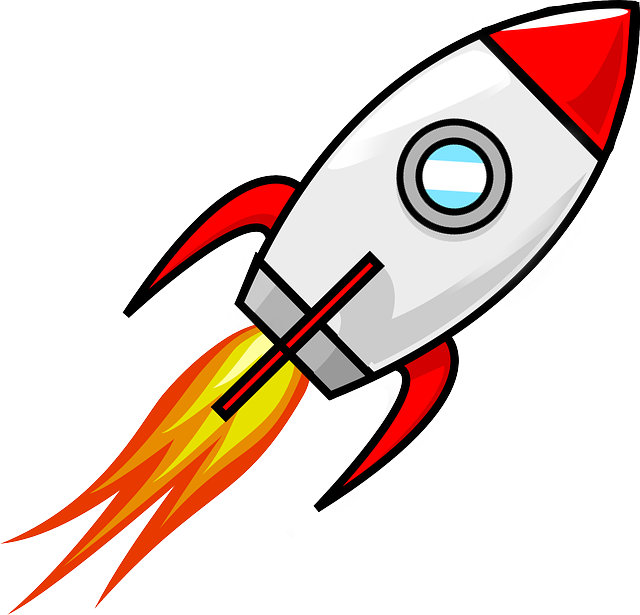
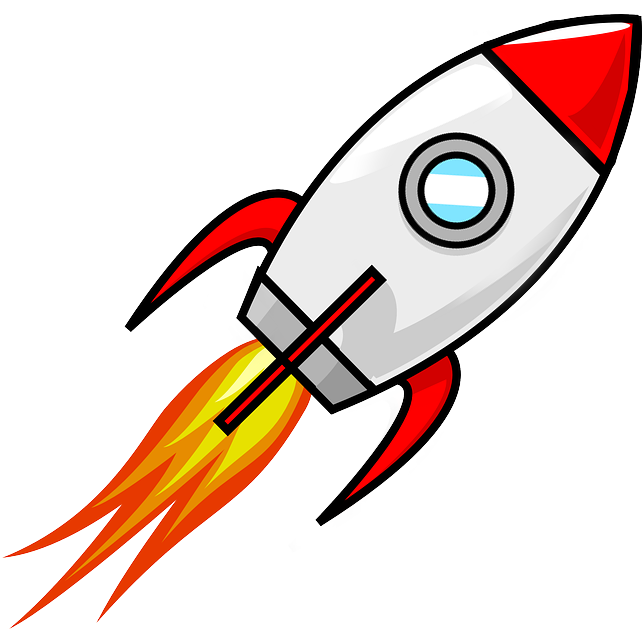
rocket ride

diff --git a/index2.html b/index2.html
@@ -56,7 +56,160 @@
 
     <footer>Made by falcongirl4 and team.</footer>
 </body>
+
 <script>
+
+var canvas=document.getElementById("canvas");
+var ctx=canvas.getContext("2d");
+
+var cx=50;
+var cy=50;
+var radius=4;
+
+// a variable to hold the current degree of rotation
+var degreeAngle=0;
+
+// load an image
+// when the image is fully loaded, call start()
+// start() will start the animation loop
+var img=new Image();
+img.onload=start;
+img.src="./images/rocket3.png";
+function start(){
+    animate();
+}
+
+// this is an animation loop
+// using requestAnimationFrame
+let RUN_INDEX = 0;
+let moveIDX = 0;
+let scaleDWN = 0;
+function animate(){
+    
+    // request that this animate() function be called again
+    // this creates an animation loop
+    // requestAnimationFrame(animate);
+    
+    // clear the canvas
+    
+    // calculate the new position of the image
+    // this example just rotates it around a centerpoint   
+    // degreeAngle+=1;
+    // var radianAngle=degreeAngle*Math.PI/180;
+    // var x=cx+radius*Math.cos(radianAngle);
+    // var y=cy+radius*Math.sin(radianAngle);
+    var x = 50, y=50;
+    RUN_INDEX += 0.04;
+    moveIDX += 0.04;
+    var rotateIDX = 0;
+    // clear the canvas 
+    console.log(RUN_INDEX)
+    // and draw the image at its new position
+    if(RUN_INDEX <= 5){
+        ctx.clearRect(0,0,canvas.width,canvas.height);
+        // ctx.rotate(45 * Math.PI / 180);
+        ctx.drawImage(img,x+moveIDX,y); 
+    } else if (RUN_INDEX <= 10 ){
+        rotateIDX = 0.04;
+        ctx.clearRect(0,0,canvas.width,canvas.height);
+        ctx.translate(80, 80);
+        ctx.rotate(0.004);
+        ctx.translate(-80, -80);
+        ctx.drawImage(img,x+moveIDX,y);       
+    } else if (RUN_INDEX <= 20){
+        scaleDWN += 0.004;
+        scale = 1-scaleDWN;
+
+                ctx.clearRect(0,0,canvas.width,canvas.height);
+//                 ctx.setTransform(scale, 0, 0, scale, ctx.canvas.width / 2, ctx.canvas.height / 2);
+// ctx.drawImage(img,-img.width / 2,-img.height / 2);
+
+
+ctx.save();
+    // Translate to the center point of our image
+    ctx.translate(x + img.width * 0.5, y + img.height * 0.5);
+    // Perform the scale
+    ctx.scale(scale, scale);
+    // Translate back to the top left of our image
+    ctx.translate(-img.width * 0.5, -img.height * 0.5);
+    // Finally we draw the image
+    ctx.drawImage(img, 0, 0);
+    // And restore the context ready for the next loop
+    ctx.restore();
+
+//         ctx.setTransform(1-scaleDWN, 0, 0, 1-scaleDWN, ctx.canvas.width / 2, ctx.canvas.height / 2);
+// ctx.drawImage(img,-64 / 2,-64 / 2); // draw the image offset by half
+
+// ctx.scale(1-scaleDWN, 1-scaleDWN);
+// var x = (ctx.canvas.width / 1-scaleDWN - img.width) / 2;
+// var y = (ctx.canvas.height / 1-scaleDWN - img.height) / 2;
+// ctx.drawImage(img, x, y);
+
+// ctx.translate(x, y);
+// ctx.translate(-64/2, -64/2);
+// ctx.drawImage(img, 0, 0, 64, 64);
+// //context.restore();
+// ctx.setTransform(1,0,0,1,0,0);   // reset matrix
+
+
+//         ctx.clearRect(0,0,canvas.width,canvas.height);
+// ctx.save();
+// ctx.translate( x-50, y-50 );
+// ctx.scale(1-scaleDWN,1-scaleDWN );
+// ctx.drawImage(img,x,y); 
+// ctx.restore();
+        
+    } else {
+        return;
+    }
+    requestAnimationFrame(animate);
+    
+}
+
+
+</script>
+
+<!--script>
+    "use strict";
+    let canvas;
+    let ANMCTX;
+    let rocketIMG;
+
+    window.onload = init;
+    function init(){
+        canvas = document.getElementById('canvas');
+        ANMCTX = canvas.getContext('2d');
+        //INIT----------------ROCKET-.
+        rocketIMG = new Image();
+        rocketIMG.onload = drawRocketIMG; 
+        rocketIMG.src = './images/rocket3.png';
+        function drawRocketIMG() {
+            // ANMCTX.imageSmoothingEnabled = false;
+            ANMCTX.setTransform(1, 0, 0, 1, 0, 0);
+            ANMCTX.rotate(45 * Math.PI / 180);
+            ANMCTX.drawImage(rocketIMG, 100, 30, 64, 64);
+            // ANMCTX.drawImage(rocketIMG, 5, 5, 64, 64, 0, 0, 64, 64);
+        }
+
+        window.requestAnimationFrame(ANMLOOP); //first frame
+    }
+    function ANMLOOP(timeStamp){
+        // console.log('f');
+        window.requestAnimationFrame(ANMLOOP); //recursive next frame
+        ANM();
+    }
+    let index = 1;
+    function ANM(){
+        index+=0.04;
+        // ANMCTX.clear();
+        ANMCTX.clearRect(0,0,64,64);
+        ANMCTX.setTransform(1, 0, 0, 1, 0, 0);
+        ANMCTX.rotate(45 * Math.PI / 180);
+        ANMCTX.drawImage(rocketIMG, 100-index, 30, 64, 64);
+    }
+</script-->
+
+<!--script>
 
 var domCanvas = document.getElementById('canvas');
 var domContext = domCanvas.getContext('2d');
@@ -107,12 +260,14 @@ function drawRocketIMG() {
   domContext.drawImage(this, 50, 50, 80, 80);
 }
 
+// ctx.setTransform(1, 0, 0, 1, 0, 0);
+
 /* render virtual canvases on DOM canvas */
 domContext.drawImage(canvas, 0, 0, 200, 200);
 domContext.drawImage(canvas3, 0, 0, 200, 200);
 // domContext.drawImage(canvas2, 0, 0, 200, 200);
 
-</script>
+</script-->
 <!--script>
 const canvas = document.getElementById('canvas');
 const ctx = canvas.getContext('2d');
